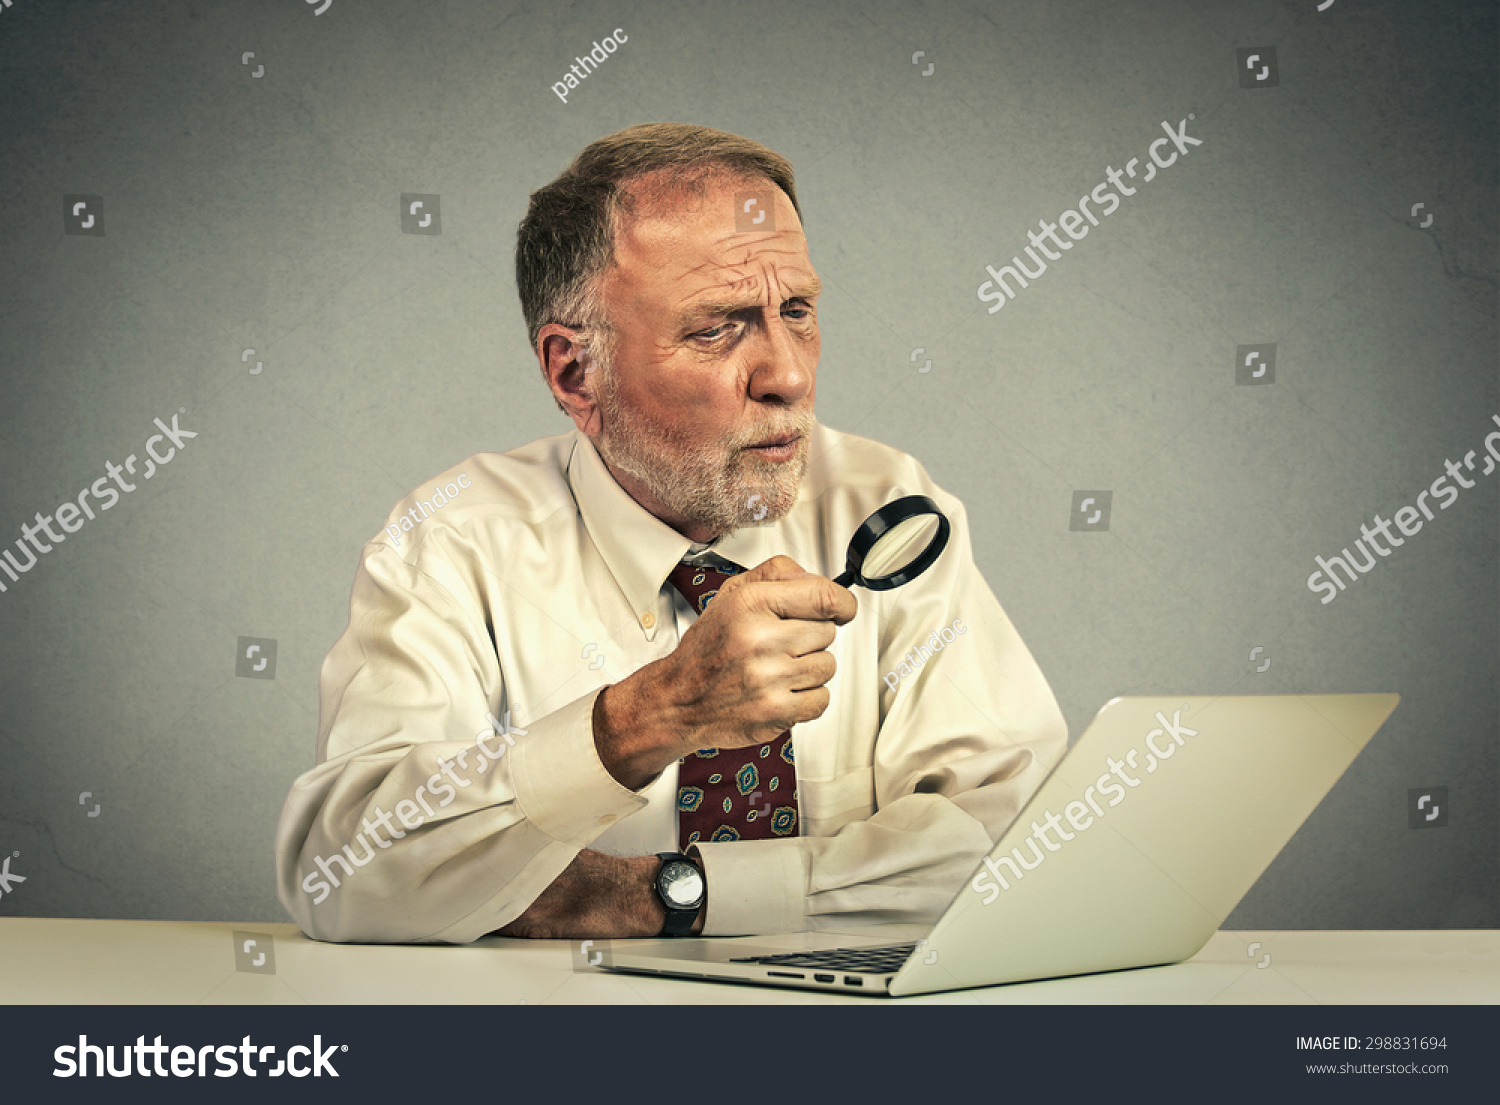
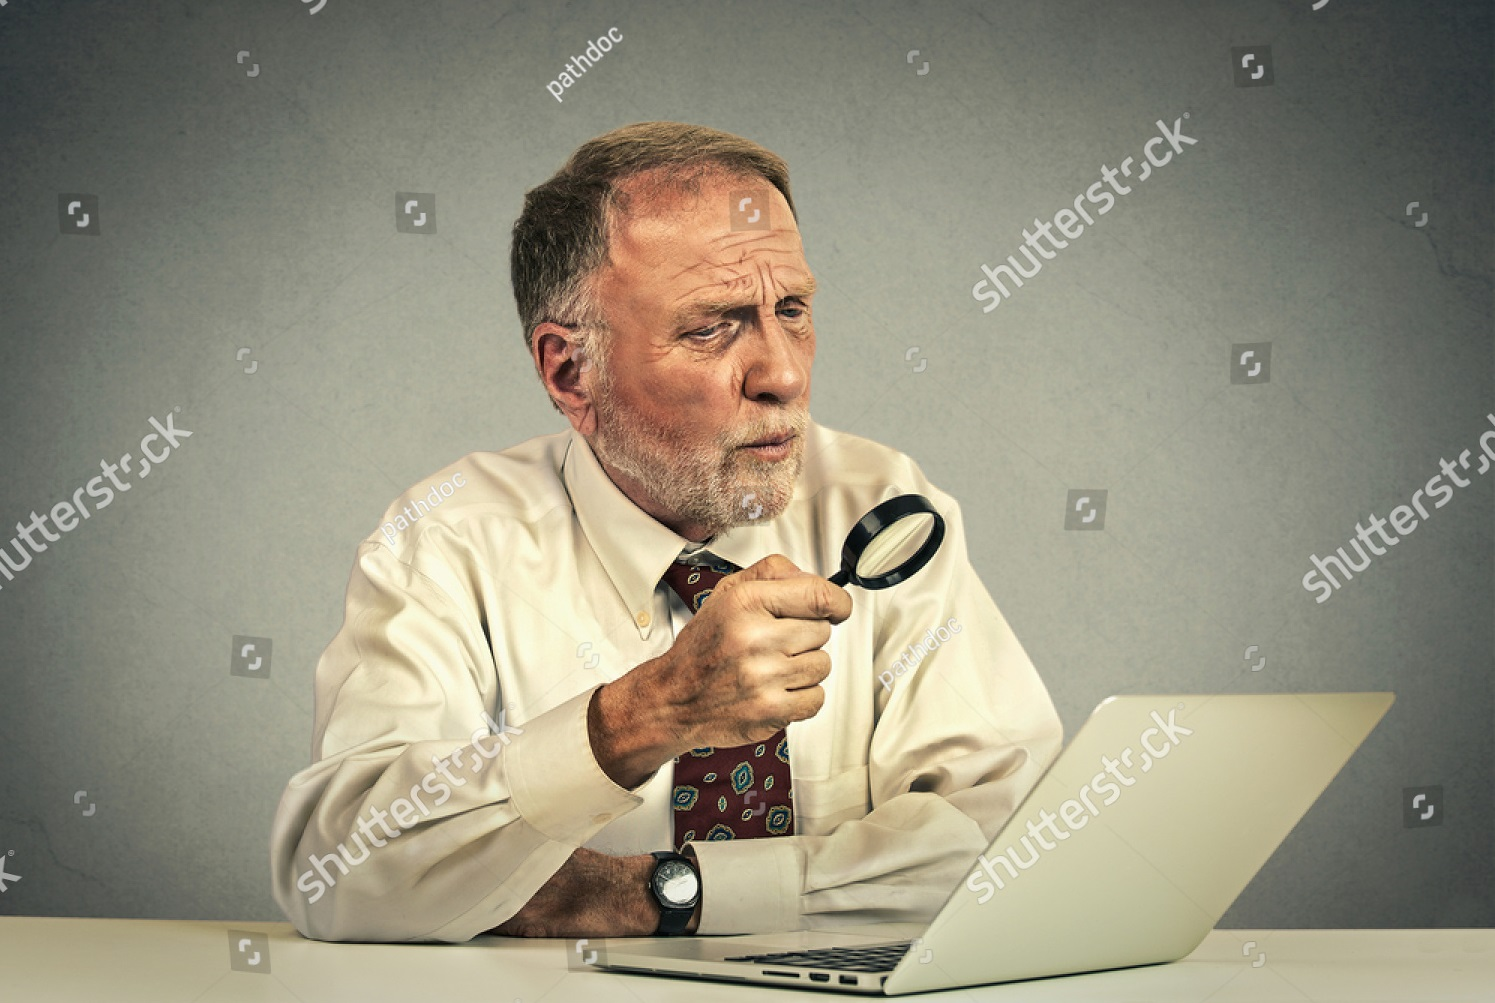
feat: change home and about-us pages

diff --git a/src/app/pages/home/home.component.html b/src/app/pages/home/home.component.html
@@ -22,8 +22,8 @@
     </div>
   </div>
   <div class="d-none d-sm-block col-12 col-md-6 order-sm-1 order-md-2 p-0">
-    <img src="/assets/people/old-woman-smiling.jpg"
-         title="Smiling Woman"
+    <img src="/assets/shutterstock/curious-portrait-senior-man-investigator-working-298831694.jpg"
+         title="A Senior Expert Investigating a Solution"
          class="cover-img">
   </div>
 </div>
@@ -100,8 +100,8 @@
 <div class="container problem-solution">
   <div class="row border-top">
     <div class="col-12 col-lg-6 d-none d-md-block">
-      <img src="/assets/people/young-man-with-glasses.jpg"
-           title="Old Man with Glasses"
+      <img src="/assets/shutterstock/closeup-portrait-senior-elderly-mature-man-163580435.jpg"
+           title="Closeup Of A Senior Elderly Man Reading"
            class="cover-img">
     </div>
     <div class="col-12 col-lg-6">
@@ -141,8 +141,8 @@
       </div>
     </div>
     <div class="col-12 col-lg-6 d-none d-md-block order-md-1 order-2">
-      <img src="/assets/images/clear-vision-person-blue.png"
-           title="Old Man with Glasses"
+      <img src="/assets/shutterstock/asian-doctor-use-flashlight-screening-eyes-1745524493.jpg"
+           title="Doctor Checking Eyes Using a Flashlight"
            class="cover-img">
     </div>
   </div>

diff --git a/src/app/pages/about-us/about-us.component.html b/src/app/pages/about-us/about-us.component.html
@@ -2,8 +2,8 @@
 <div class="container">
   <div class="row">
     <div class="col-12 col-lg-6 d-none d-lg-block p-0">
-      <img src="/assets/people/old-woman-smiling-2.jpg"
-           title="Old Woman with Glasses"
+      <img src="/assets/shutterstock/optician-comforting-aged-lady-trying-read-1492461257.jpg"
+           title="Optician Comforting Aged Lady Trying To Read"
            class="cover-img">
     </div>
     <div class="col-12 col-lg-6 p-4">

diff --git a/src/app/pages/home/home.component.scss b/src/app/pages/home/home.component.scss
@@ -17,8 +17,6 @@ p + p {
       &:hover {
         background-color: var(--clr-white);
         box-shadow: 2px 2px 15px 5px rgba(0, 0, 0, 0.5);
-        transform: scale(1.05);
-        z-index: 10;
       }
       p,
       h3 {
@@ -39,9 +37,6 @@ p + p {
         font-size: 4rem;
       }
     }
-  }
-  &:hover > div:not(:hover) {
-    opacity: 0.5;
   }
 }
 .problem-solution {
